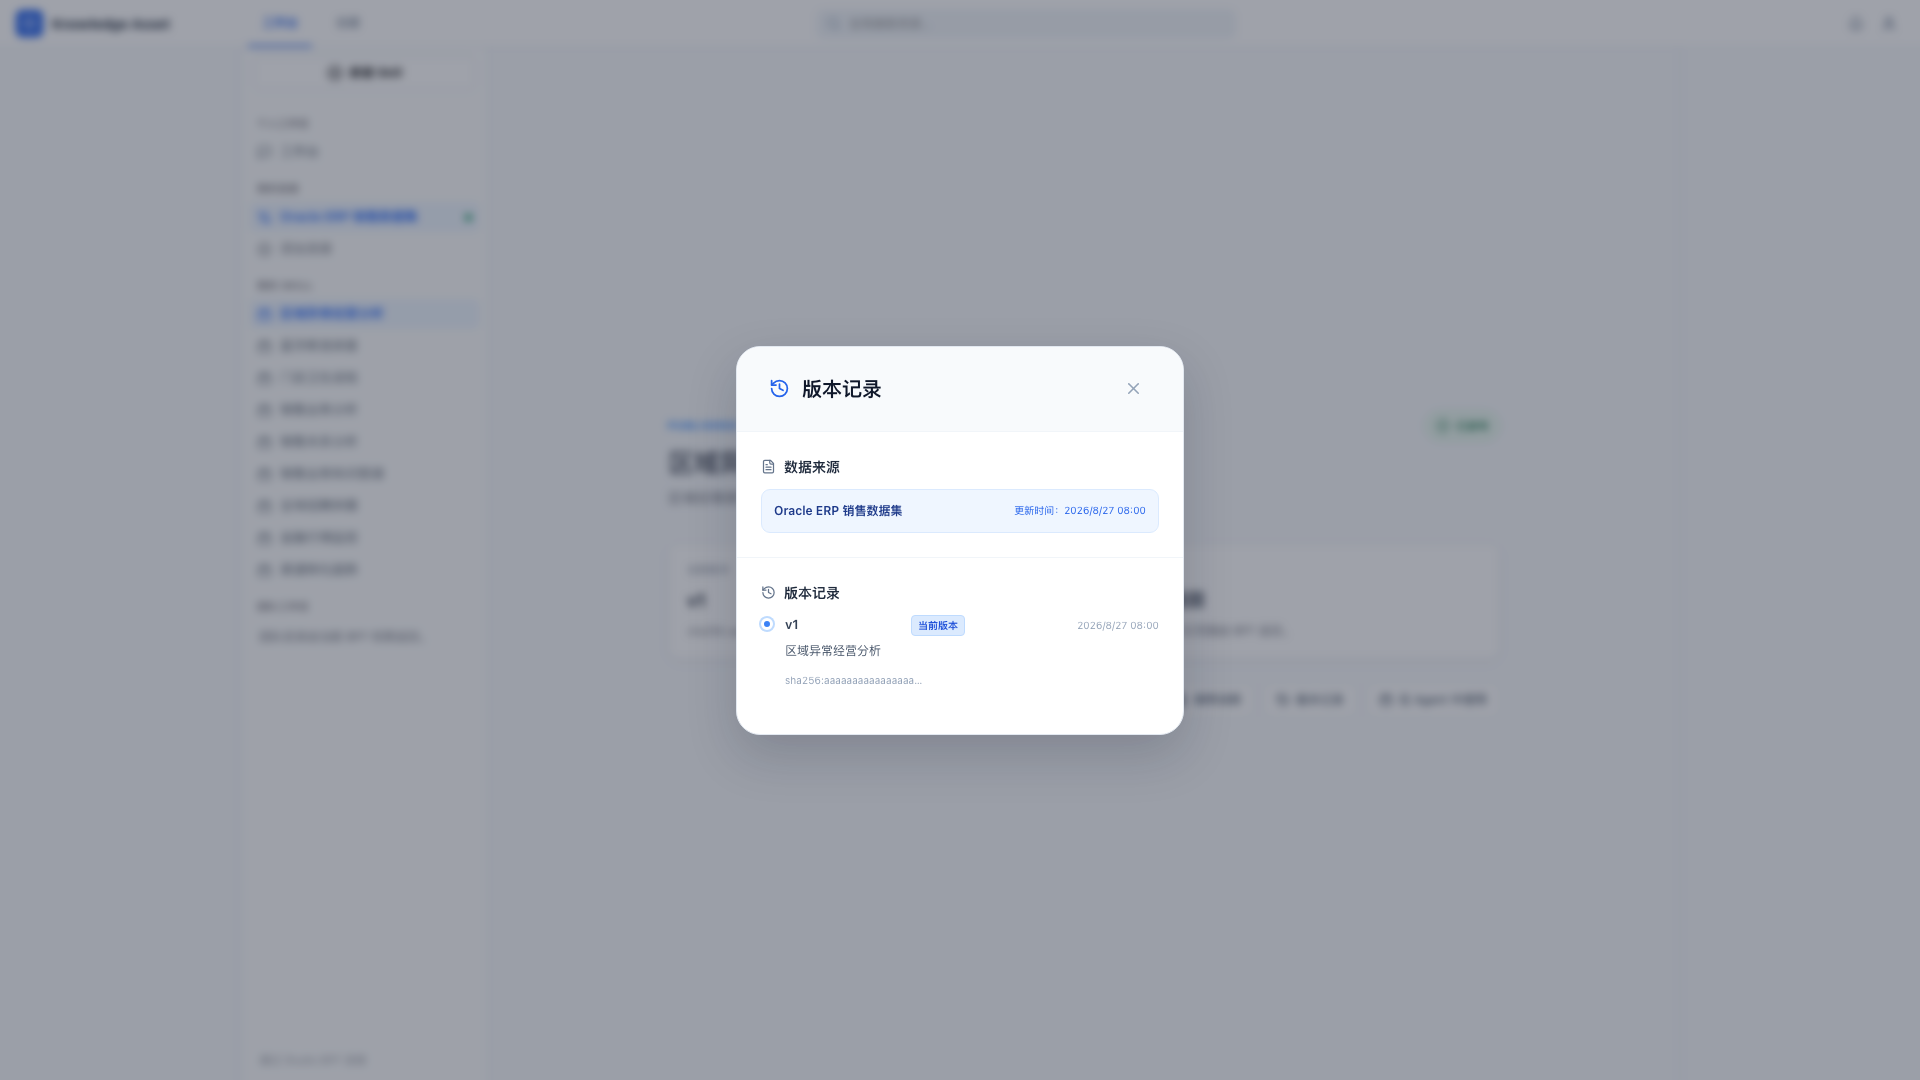
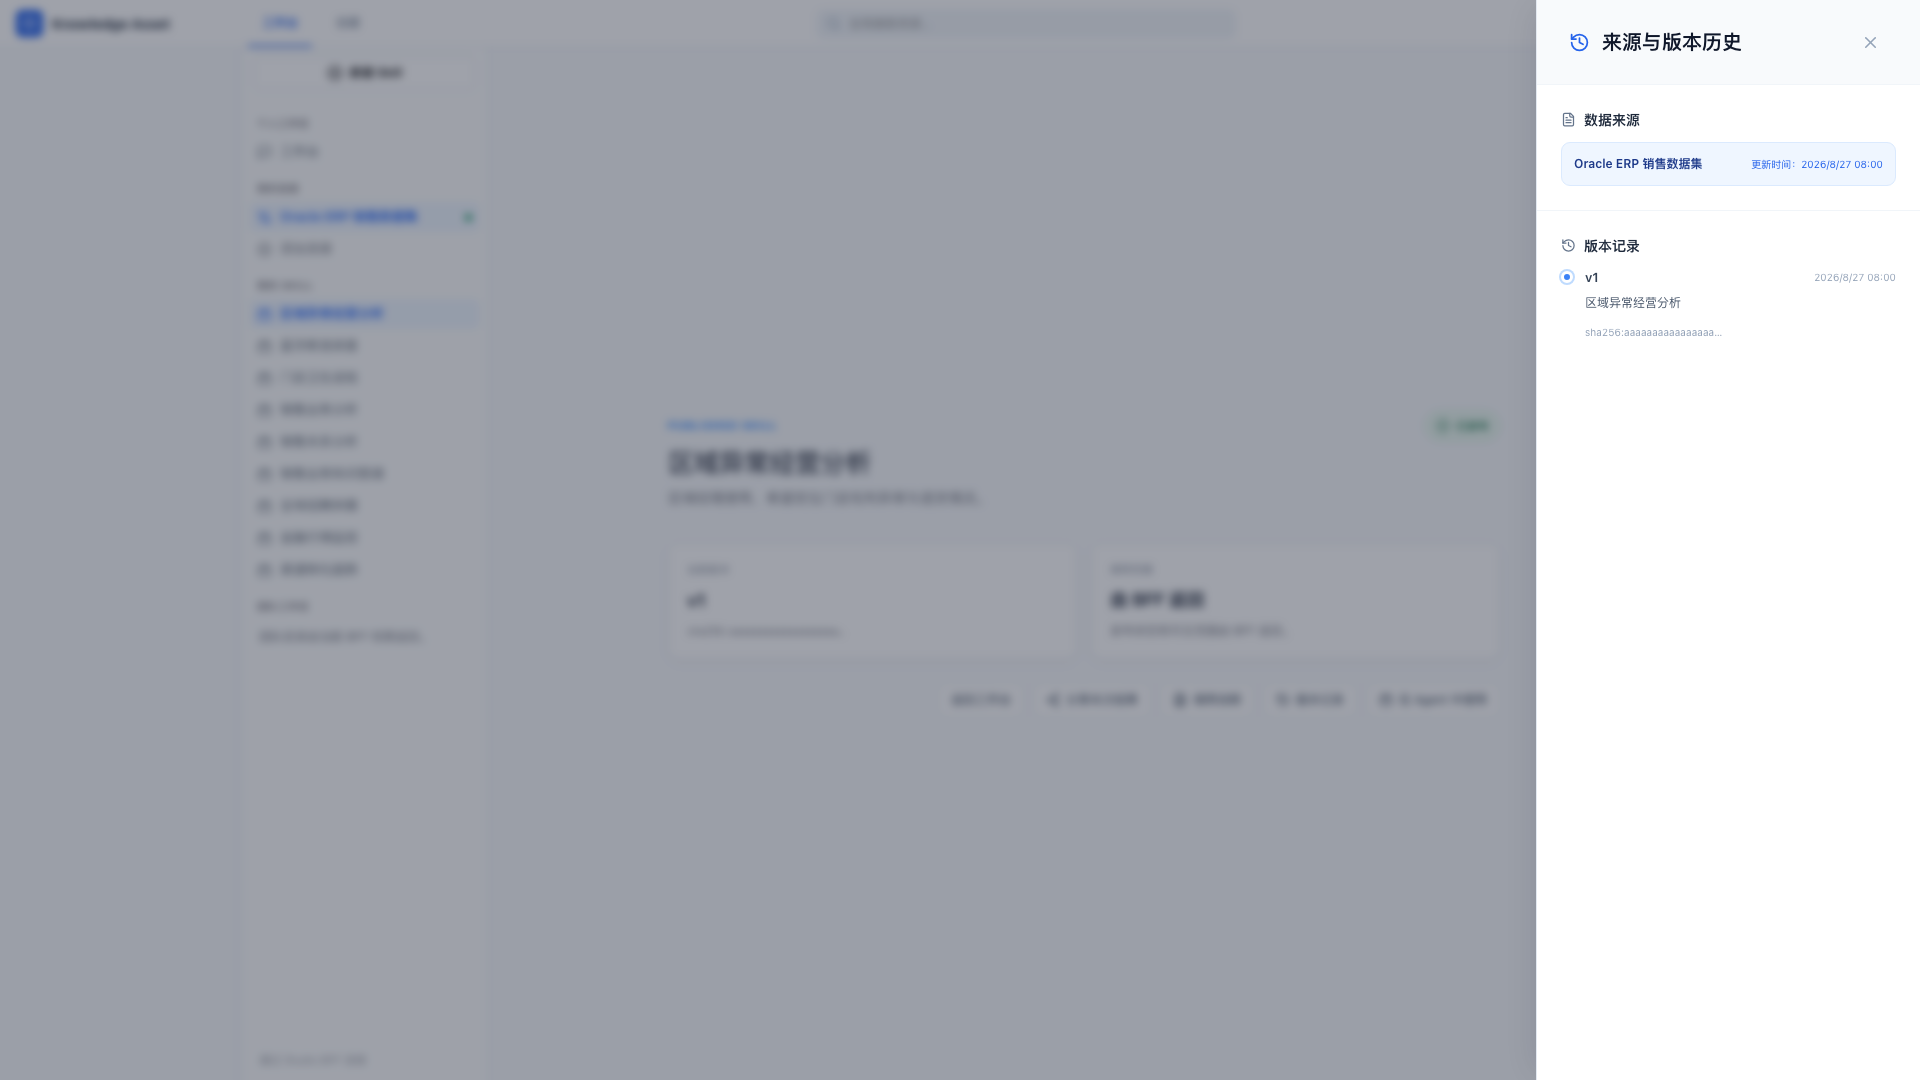
docs(knowledge): freeze STEP2A visual evidence

Changed region(s): [[0.7812, 0.0, 1.0, 1.0], [0.375, 0.3056, 0.625, 0.7028]]

diff --git a/docs/knowledge-workspace/capture-report.md b/docs/knowledge-workspace/capture-report.md
@@ -31,14 +31,15 @@ The differing-pixel ratio is retained as a risk signal only. It is sensitive
 to font rasterization and to the Prototype published-modal reference anomaly.
 The gate below is based on the required manual side-by-side review of page
 state, skeleton, hierarchy, component presence, geometry, overflow, and
-responsive behavior.
+responsive behavior. The report was regenerated after restoring the source
+aligned VersionHistory Drawer.
 
 Manual review and render-gate result: P0 = 0, P1 = 0. All 22 states render the intended page
 or modal rather than a URL-only placeholder. No state has an empty replacement
 page, main/right-pane overlap, clipping, or blocking overflow at the reviewed
 desktop and narrow layouts. The shared modal surfaces use the Prototype
-overlay, header/body/footer, double-column Agent layout, and centered 448px
-version modal geometry while retaining BFF-backed content.
+overlay, header/body/footer, double-column Agent layout, and right-docked
+384px full-height version Drawer geometry while retaining BFF-backed content.
 
 The harness additionally asserts welcome cards, draft center and chat rail,
 380px desktop chat geometry, skill-new form/connection/upload structure, one
@@ -73,10 +74,17 @@ surface. This conflicts with the Prototype component source and with the
 STEP 2A requirement that each URL state truly render its modal. The
 implementation therefore keeps real, interactive modal surfaces and the
 manual gate judges them against the source component structure and interaction
-requirement. `versions` is a centered `max-w-md` (448px) modal, matching the
-source `VersionHistoryModal`; it is not a right-docked drawer. Their pixel
+requirement. `versions` is a right-docked 384px full-height Drawer, matching the
+source `VersionHistoryModal`. Their pixel
 ratios are reported above and are not treated as evidence that the modal was
 omitted.
+
+The implementation geometry is source-aligned: the published Agent modal is
+896px wide, while the Versions surface is a right-docked 384px full-height
+Drawer. From the published page, the real Share Run, Instructions, and Version
+History surfaces can each be opened by their corresponding user action; direct
+URL states exercise the same mounted components. The four reference PNGs remain
+shell-only anomalies, not implementation targets.
 
 ## Per-state comparison and manual review
 
@@ -97,7 +105,7 @@ omitted.
 | 13 | `pub_dash_anta&modal=agent` | 95.228% | 70.618 | GREEN* — real 896px double-column Agent modal and BFF-backed empty state rendered |
 | 14 | `pub_dash_anta&modal=share_run` | 96.266% | 81.817 | GREEN* — real warning, snapshot action, and empty-link state rendered |
 | 15 | `pub_dash_anta&modal=instructions` | 92.350% | 75.405 | GREEN* — real BFF-backed information fields rendered |
-| 16 | `pub_dash_anta&modal=versions` | 98.262% | 73.377 | GREEN* — real centered 448px version modal, source block, and BFF-backed timeline rendered |
+| 16 | `pub_dash_anta&modal=versions` | 99.356% | 73.377 | GREEN* — real right-docked 384px full-height source-aligned Drawer, source block, and BFF-backed timeline rendered |
 | 17 | `draft_sop_bluetooth` | 11.141% | 2.715 | GREEN — draft shell and SOP state rendered |
 | 18 | `draft_sop_haidilao` | 11.072% | 2.658 | GREEN — draft shell and SOP state rendered |
 | 19 | `skill_new` | 12.130% | 3.986 | GREEN — form hierarchy, connection section, upload, and submit present |
@@ -117,6 +125,7 @@ omitted.
 | Cancel | BFF stop contract | PASS |
 | Refresh recovery | draft and revision reads after reload | PASS |
 | Versions and publish | immutable revision and publish contract | PASS |
+| Published Share Run / Instructions / Versions | real published-page click targets open the corresponding modal or Drawer | PASS |
 | Desktop E2E | 1440×900 Playwright contract fixture | PASS |
 | Narrow E2E | 390×844 Playwright contract fixture | PASS |
 
